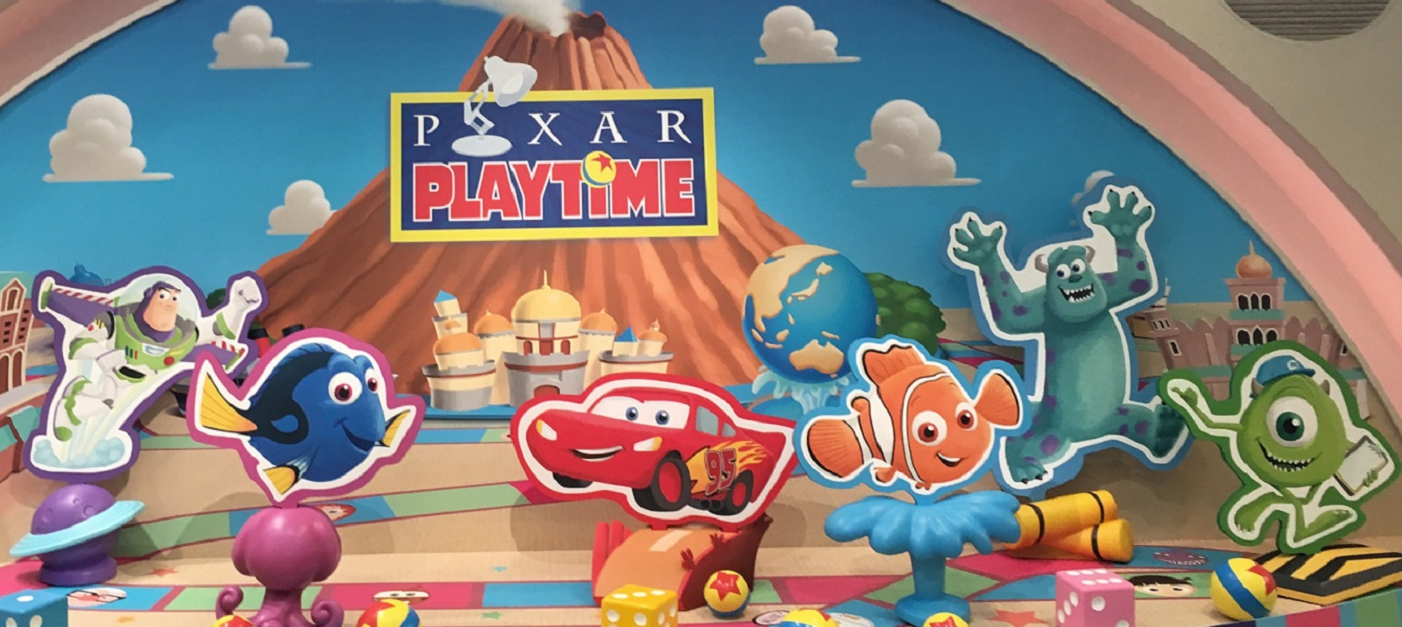
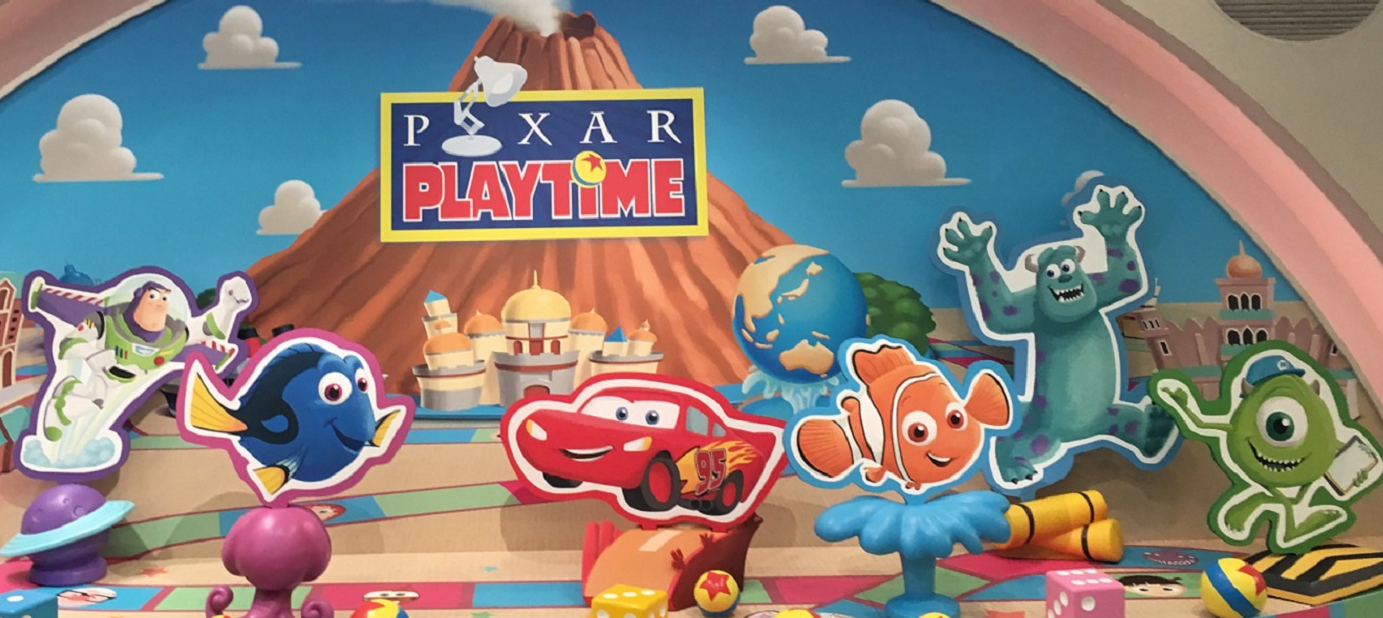
グラフデータのトレースに成功

diff --git a/py/openCvLab/getgraph.py b/py/openCvLab/getgraph.py
@@ -1,6 +1,5 @@
 import cv2
 import os
-import numpy as np
 
 
 def display_image(img):
@@ -14,30 +13,124 @@ def display_image(img):
     cv2.destroyAllWindows()
 
 
-def extract_graph(imread):
+def judge_4points(coordinate, img_height, img_weight):
+    """
+    画像の角にある輪郭点は対象外とする
+    :param contours: 輪郭点list
+    :param img_height: 画像の高さ
+    :param img_weight: 画像の幅
+    :return: true: 角付近の座標 false: それ以外
+    """
+    # 四つ角判定変数
+    p = 3
+
+    x = coordinate[0][0]
+    y = coordinate[0][1]
+
+    is_x_end = False
+    if x <= p or img_weight - p <= x:
+        is_x_end = True
+
+    is_y_end = False
+    if y <= p or img_height - p <= y:
+        is_y_end = True
+
+    # xもyも両端であった場合、四つ角である
+    if is_x_end and is_y_end:
+        return True
+
+    return False
+
+
+def extract_graph(imread, img_height, img_weight):
     """
     膨張処理
     :param imread:
+    :param img_height:
+    :param img_weight:
     :return:
     """
-    # グレースケール
-    gray = cv2.cvtColor(imread, cv2.COLOR_RGB2GRAY)
-    display_image(gray)
-
     # 二値化
+    gray = cv2.cvtColor(imread, cv2.COLOR_RGB2GRAY)
     ret, th1 = cv2.threshold(gray, 130, 255, cv2.THRESH_BINARY)
-    display_image(gray)
 
+    # 輪郭抽出
     ret, contours, hierarchy = cv2.findContours(th1, cv2.RETR_TREE, cv2.CHAIN_APPROX_SIMPLE)
-    print("検出した輪郭の数：", len(contours), "hierarchy=", len(hierarchy))
+    # cv2.drawContours(imread, contours, -1, (0, 255, 0), 3)
+    # display_image(imread)
 
-    # 抽出した輪郭を描画してみる
-    for c in contours:
-        cv2.drawContours(imread, c, -1, (0, 255, 0), 3)
+    # 抽出した輪郭から必要な情報だけを抽出
+    all_array = []
+    for contour in contours:
+        for c in contour:
+            # 四辺の輪郭点は対象外とする
+            if not judge_4points(coordinate=c, img_height=img_height, img_weight=img_weight):
+                all_array.append(c[0])
 
-    display_image(imread)
+    return all_array
 
-    return contours
+
+def complement_value(coordinates, x_size):
+    """
+    グラフ数値補完・削除処理
+    :param coordinates: 座標データ
+    :param x_size:
+    :return:
+    """
+    # X座標準にソート
+    coordinates.sort(key=lambda x: (x[0], x[1]))
+
+    # x軸に対応するyデータを整形する
+    complements = []
+    for x in range(x_size):
+        correct = []
+        is_continue = True
+
+        # xの値が同値の場合はｙの値が大きいほうを採用する = あとから入ってきたデータを採用する
+        while is_continue:
+            if len(coordinates) <= 0:
+                if 0 < len(correct):
+                    insert_data = [correct[0], correct[1]]
+                else:
+                    insert_data = [x, complements[len(complements) - 1][1]]
+
+                complements.append(insert_data)
+                break
+
+            target = coordinates.pop(0)
+            if target[0] == x:
+                correct = target
+                continue
+            else:
+                # 対象のx軸データが存在する場合は左記データを採用
+                if 0 < len(correct):
+                    append_data = [correct[0], correct[1]]
+
+                else:
+                    # 元データが存在しない場合は1つ前に採用されたデータと同じyの値を設定する
+                    if 0 < len(complements):
+                        append_data = [x, complements[len(complements) - 1][1]]
+
+                    # 前に採用されたデータ存在しない場合は後続のデータと同じ値を設定する
+                    else:
+                        append_data = [x, coordinates[0][1]]
+
+                complements.append(append_data)
+                # popしてしまったデータを元に戻す
+                coordinates.insert(0, target)
+                is_continue = False
+
+    return complements
+
+
+def split_coodinates(coordinates, split_count):
+    """
+    座標データを分割する
+    :param coordinates: 座標データ(x軸すべてに値が補完されていること)
+    :param split_count: 分割数
+    :return: 分割データリスト
+    """
+    # TODO
 
 
 if __name__ == '__main__':
@@ -46,19 +139,22 @@ if __name__ == '__main__':
     # 画像サイズが一緒でない場合は画像サイズを合わせたほうがいい
     # IMAGE_SIZE = (993, 449)
 
-    SOURCE_FILE_NAME = '2.png'
+    SOURCE_FILE_NAME = '1-8avetmp.png'
     source = cv2.imread(IMAGE_DIR + SOURCE_FILE_NAME)
+    # display_image(source)
 
-    display_image(source)
+    # 輪郭抽出（グラフ点抽出)
+    img_height, img_weight = source.shape[:2]
+    coordinates = extract_graph(imread=source, img_weight=img_weight, img_height=img_height)
 
-    contours = extract_graph(source)
+    # 抽出したエッジ内のスパースな部分を補完する
+    graph_coordinates = complement_value(coordinates=coordinates, x_size=img_weight)
 
-    # TODO 抽出したエッジ内のスパースな部分を補完する
+    # データセット分割
+    split_graph = split_coodinates(graph_coordinates, 5)
 
     # TODO ターゲットについても↑と同じ情報を取得する
 
     # TODO 同じエッジ数になったか確認する
 
     # TODO マッチングして類似か判定するぞ(for文で) 総和の平均とかでまずは算出
-
-

diff --git a/py/pillowLab/imageextractor.py b/py/pillowLab/imageextractor.py
@@ -17,7 +17,7 @@ for image in os.listdir(IMAGE_DIR):
 
     # 画像の切り取り
     # im.crop(左上X, 左上Y, 右下X, 右下Y)
-    im_crop = im.crop((292, 203, 1694, 830))
+    im_crop = im.crop((302, 203, 1685, 821))
 
     # ファイルの書き出し
     im_crop.save(os.path.join(OUTPUT_DIR,image), quality=100)
